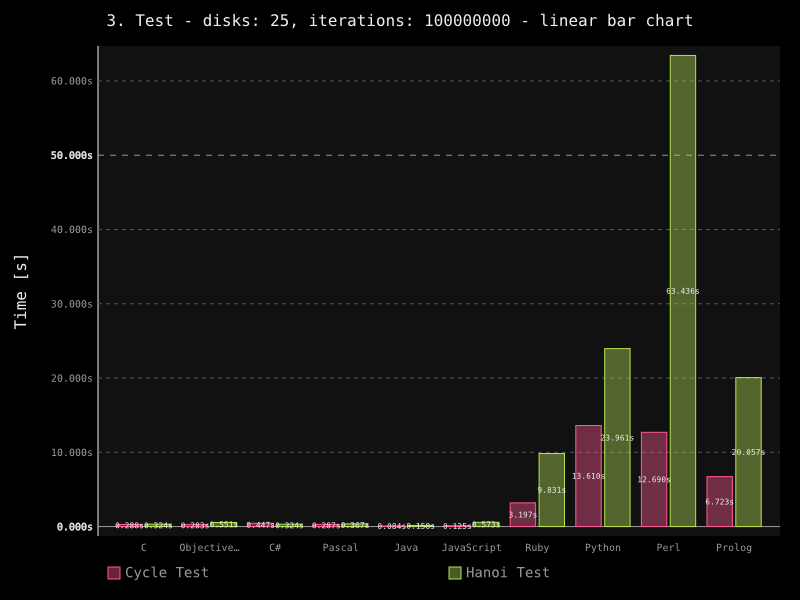
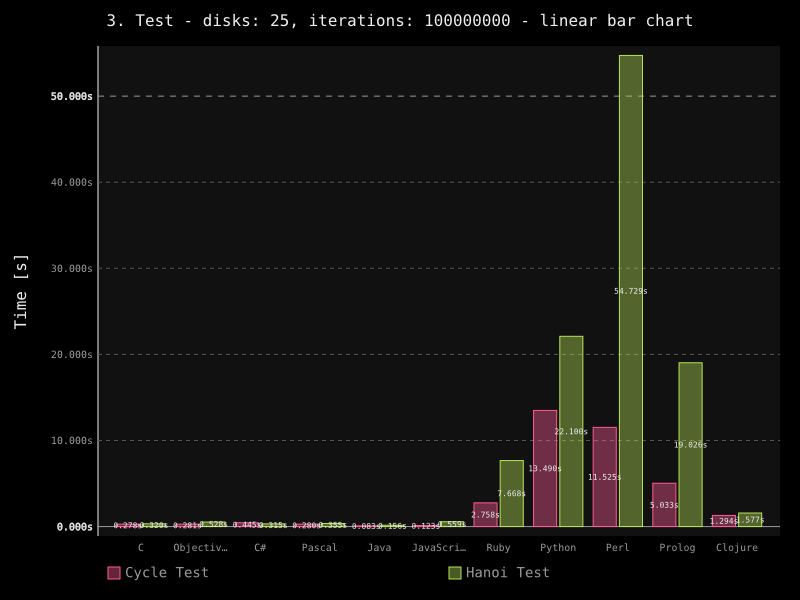
Added Haskell and Clojure

diff --git a/evaluator/docu_generator.py b/evaluator/docu_generator.py
@@ -125,7 +125,7 @@ to construct tables and graphs.
 
 """
 
-    LICENCE = """
+    LICENSE = """
 ## License
 ```
 Programming Languages Benchmark Script.
@@ -271,16 +271,19 @@ along with this program. If not, see <http://www.gnu.org/licenses/>.
     @classmethod
     def generate_readme(cls, versions, system_info, results):
         """ Generates README.md in Markdown syntax with all necessary info. """
+        print('Generating README.md...', end=' ')
 
         if not os.path.exists(cls.RESULTS_DIR):
             os.makedirs(cls.RESULTS_DIR)
 
         versions = cls.create_version_table(versions)
         system_info = cls.create_system_info_table(system_info)
-        text = '%s%s%s' % (cls.README_TEMPLATE % (system_info, versions,
+        text = '%s%s%s\n' % (cls.README_TEMPLATE % (system_info, versions,
                                                 C.EVALUATIONS, C.TIMEOUT),
                          cls.build_results_section(results),
-                         cls.LICENSE)
+                         cls.LICENSE.strip())
 
         with open('README.md', 'w') as flw:
             flw.write(text)
+
+        print('OK')

diff --git a/evaluator/config.py b/evaluator/config.py
@@ -25,7 +25,7 @@ if platform.system() == 'Windows':
 def safe_path(path):
     """ Convert path to safe path. """
     path = shutil.which(os.path.normpath(path))
-    if path and platform.system() == 'Windows':
+    if path and platform.system() == 'Windows' and os.path.dirname(path):
         return win32api.GetShortPathName(path)
     else:
         return path
@@ -177,3 +177,21 @@ class CLispLanguage(Language):
     VERSION = '%s --version' % PROGRAM
     RUN = '%s sources/clisp_test.lisp' % PROGRAM
     ORDER = 13
+
+class ClojureLanguage(Language):
+    """ Clojure Language config. """
+
+    NAME = 'Clojure'
+    PROGRAM = 'java -cp /Applications/clojure-1.6.0/clojure-1.6.0.jar'
+    VERSION = 'Clojure 1.6.0'
+    RUN = '%s clojure.main sources/clojure_test.clj' % PROGRAM
+    ORDER = 14
+
+class HaskellLanguage(Language):
+    """ Haskell Language config. """
+
+    NAME = 'Haskell'
+    PROGRAM = safe_path('runhaskell')
+    VERSION = 'ghc --version'
+    RUN = '%s sources/haskell_test.hs' % PROGRAM
+    ORDER = 15

diff --git a/tester.py b/tester.py
@@ -17,6 +17,12 @@ You should have received a copy of the GNU General Public License
 along with this program. If not, see <http://www.gnu.org/licenses/>.
 '''
 
+# TO DO:
+#   - add parameters, usage
+#   - add Haskell, Scala, Clojure
+#   - add prerequisities check
+#   - add Eratosen test
+
 from evaluator.evaluator import Evaluator
 from evaluator.docu_generator import DocuGenerator
 from evaluator.languages import load_languages
@@ -45,6 +51,7 @@ def main():
     Evaluator.compile_languages(languages)
     results = Evaluator.test_languages(languages, C.TESTS,
                                        C.EVALUATIONS, C.TIMEOUT)
+    print('*' * 60)
     DocuGenerator.generate_readme(versions, system_info, results)
     Evaluator.cleanup(languages)
 

diff --git a/evaluator/languages.py b/evaluator/languages.py
@@ -203,3 +203,13 @@ class PrologLanguage(Language):
 class CLispLanguage(Language):
     """ Common Lisp Language class. """
     pass
+
+class ClojureLanguage(Language):
+    """ Clojure Language class. """
+    
+    def check_version(self, version):
+        return version
+
+class HaskellLanguage(Language):
+    """ Haskell Language class. """
+    pass

diff --git a/evaluator/evaluator.py b/evaluator/evaluator.py
@@ -172,7 +172,6 @@ class Evaluator():
     def cleanup(cls, languages):
         """ Removes created binaries. """
 
-        print('*' * 60)
         print('Cleaning up...', end=' ')
         for lang in languages:
             if lang.available:

diff --git a/README.md b/README.md
@@ -95,6 +95,8 @@ Bash and where I would use Swift in future.
 | Bash | GNU bash, version 3.2.51(1)-release (x86_64-apple-darwin13) |
 | Prolog | SWI-Prolog version 6.6.6 for x86_64-darwin13.1.0 |
 | Common Lisp | GNU CLISP 2.49 (2010-07-07) (built 3612292961) (memory 3612293171) |
+| Clojure | Clojure 1.6.0 |
+| Haskell | The Glorious Glasgow Haskell Compilation System, version 7.6.3 |
 
 ### Performance Tests
 
@@ -106,19 +108,21 @@ to construct tables and graphs.
     
 | Lang | Avg. cycles | Std. cycles | Avg. hanoi | Std. hanoi |
 | :-----: | :-----: | :-----: | :-----: | :-----: |
-| C | 0.003s | 74.54% | 0.000s | 0.00% |
+| C | 0.003s | 0.00% | 0.000s | 0.00% |
 | Objective-C | 0.003s | 0.00% | 0.001s | 0.00% |
-| C# | 0.005s | 40.00% | 0.000s | 0.00% |
-| Pascal | 0.003s | 29.81% | 0.000s | 0.00% |
-| Java | 0.003s | 21.08% | 0.001s | 0.00% |
-| JavaScript | 0.001s | 77.46% | 0.002s | 0.00% |
-| PHP | 0.156s | 1.77% | 0.133s | 11.64% |
-| Ruby | 0.027s | 3.31% | 0.007s | 11.07% |
-| Python | 0.131s | 6.14% | 0.022s | 4.55% |
-| Perl | 0.111s | 2.01% | 0.053s | 5.13% |
-| Bash | 26.570s | 3.87% | 4.540s | 14.15% |
-| Prolog | 0.053s | 8.00% | 0.005s | 54.41% |
-| Common Lisp | 1.452s | 4.52% | 0.137s | 16.48% |
+| C# | 0.004s | 0.00% | 0.000s | 0.00% |
+| Pascal | 0.003s | 94.28% | 0.000s | 0.00% |
+| Java | 0.003s | 0.00% | 0.001s | 0.00% |
+| JavaScript | 0.001s | 141.42% | 0.002s | 70.71% |
+| PHP | 0.152s | 1.81% | 0.127s | 6.08% |
+| Ruby | 0.030s | 22.46% | 0.009s | 36.18% |
+| Python | 0.126s | 2.04% | 0.027s | 45.93% |
+| Perl | 0.109s | 1.64% | 0.051s | 3.04% |
+| Bash | 25.744s | 1.73% | 4.130s | 0.72% |
+| Prolog | 0.053s | 11.93% | 0.006s | 67.49% |
+| Common Lisp | 1.314s | 0.72% | 0.121s | 13.56% |
+| Clojure | 0.058s | 30.04% | 0.023s | 15.56% |
+| Haskell | 1.218s | 1.70% | 0.118s | 8.15% |
 
 ![Bar graph results 1](results/bar_graph1.png)
 
@@ -128,19 +132,21 @@ to construct tables and graphs.
     
 | Lang | Avg. cycles | Std. cycles | Avg. hanoi | Std. hanoi |
 | :-----: | :-----: | :-----: | :-----: | :-----: |
-| C | 0.027s | 4.68% | 0.010s | 4.47% |
-| Objective-C | 0.028s | 3.57% | 0.017s | 2.63% |
-| C# | 0.044s | 2.87% | 0.010s | 6.32% |
-| Pascal | 0.028s | 3.19% | 0.010s | 10.95% |
-| Java | 0.011s | 5.75% | 0.007s | 12.78% |
-| JavaScript | 0.012s | 9.13% | 0.019s | 4.08% |
-| PHP | 1.631s | 3.74% | 4.305s | 4.04% |
-| Ruby | 0.316s | 5.22% | 0.279s | 6.37% |
-| Python | 1.512s | 18.63% | 0.774s | 4.74% |
-| Perl | 1.141s | 1.08% | 1.674s | 1.48% |
+| C | 0.028s | 1.60% | 0.010s | 0.00% |
+| Objective-C | 0.027s | 3.70% | 0.016s | 6.25% |
+| C# | 0.043s | 2.08% | 0.009s | 8.61% |
+| Pascal | 0.028s | 3.19% | 0.011s | 8.13% |
+| Java | 0.011s | 21.51% | 0.006s | 14.91% |
+| JavaScript | 0.012s | 3.73% | 0.019s | 0.00% |
+| PHP | 1.507s | 0.74% | 3.856s | 1.24% |
+| Ruby | 0.278s | 3.87% | 0.255s | 3.11% |
+| Python | 1.252s | 1.22% | 0.696s | 1.32% |
+| Perl | 1.090s | 1.07% | 1.635s | 0.94% |
 | Bash | Dead | Dead | Dead | Dead |
-| Prolog | 0.949s | 58.89% | 1.191s | 59.66% |
-| Common Lisp | 17.246s | 17.91% | 4.957s | 44.24% |
+| Prolog | 0.511s | 2.81% | 0.586s | 0.77% |
+| Common Lisp | 13.268s | 0.54% | 3.618s | 0.64% |
+| Clojure | 0.132s | 4.09% | 0.177s | 13.82% |
+| Haskell | 12.473s | 1.22% | 3.739s | 4.46% |
 
 ![Bar graph results 2](results/bar_graph2.png)
 
@@ -150,19 +156,21 @@ to construct tables and graphs.
     
 | Lang | Avg. cycles | Std. cycles | Avg. hanoi | Std. hanoi |
 | :-----: | :-----: | :-----: | :-----: | :-----: |
-| C | 0.288s | 3.26% | 0.324s | 2.38% |
-| Objective-C | 0.283s | 1.55% | 0.551s | 3.85% |
-| C# | 0.447s | 0.69% | 0.324s | 4.87% |
-| Pascal | 0.287s | 1.69% | 0.367s | 2.00% |
-| Java | 0.084s | 1.06% | 0.158s | 1.52% |
-| JavaScript | 0.125s | 2.99% | 0.573s | 4.04% |
+| C | 0.278s | 0.82% | 0.320s | 2.77% |
+| Objective-C | 0.281s | 3.36% | 0.528s | 2.63% |
+| C# | 0.445s | 1.98% | 0.315s | 1.09% |
+| Pascal | 0.280s | 1.11% | 0.355s | 0.98% |
+| Java | 0.083s | 2.85% | 0.156s | 3.65% |
+| JavaScript | 0.123s | 1.67% | 0.559s | 3.83% |
 | PHP | Dead | Dead | Dead | Dead |
-| Ruby | 3.197s | 19.56% | 9.831s | 20.25% |
-| Python | 13.610s | 10.15% | 23.961s | 10.21% |
-| Perl | 12.690s | 17.53% | 63.436s | 13.12% |
+| Ruby | 2.758s | 0.62% | 7.668s | 0.62% |
+| Python | 13.490s | 13.13% | 22.100s | 0.59% |
+| Perl | 11.525s | 10.66% | 54.729s | 5.49% |
 | Bash | Dead | Dead | Dead | Dead |
-| Prolog | 6.723s | 27.51% | 20.057s | 1.30% |
+| Prolog | 5.033s | 0.15% | 19.026s | 1.09% |
 | Common Lisp | Dead | Dead | Dead | Dead |
+| Clojure | 1.294s | 72.81% | 1.577s | 1.00% |
+| Haskell | Dead | Dead | Dead | Dead |
 
 ![Bar graph results 3](results/bar_graph3.png)
 
@@ -172,12 +180,12 @@ to construct tables and graphs.
     
 | Lang | Avg. cycles | Std. cycles | Avg. hanoi | Std. hanoi |
 | :-----: | :-----: | :-----: | :-----: | :-----: |
-| C | 2.881s | 2.00% | 11.838s | 14.88% |
-| Objective-C | 2.926s | 2.83% | 20.272s | 9.46% |
-| C# | 5.765s | 21.54% | 13.811s | 28.42% |
-| Pascal | 3.015s | 5.93% | 15.240s | 19.90% |
-| Java | 0.838s | 3.87% | 5.082s | 11.49% |
-| JavaScript | 1.368s | 12.25% | 21.462s | 8.63% |
+| C | 2.796s | 0.28% | 10.034s | 0.25% |
+| Objective-C | 2.787s | 0.50% | 17.253s | 3.67% |
+| C# | 4.470s | 1.38% | 10.059s | 0.15% |
+| Pascal | 2.965s | 10.35% | 11.407s | 1.93% |
+| Java | 0.807s | 0.38% | 4.407s | 0.41% |
+| JavaScript | 1.496s | 33.64% | 18.131s | 1.24% |
 | PHP | Dead | Dead | Dead | Dead |
 | Ruby | Dead | Dead | Dead | Dead |
 | Python | Dead | Dead | Dead | Dead |
@@ -185,6 +193,8 @@ to construct tables and graphs.
 | Bash | Dead | Dead | Dead | Dead |
 | Prolog | Dead | Dead | Dead | Dead |
 | Common Lisp | Dead | Dead | Dead | Dead |
+| Clojure | 7.420s | 10.71% | 47.817s | 0.84% |
+| Haskell | Dead | Dead | Dead | Dead |
 
 ![Bar graph results 4](results/bar_graph4.png)
 
